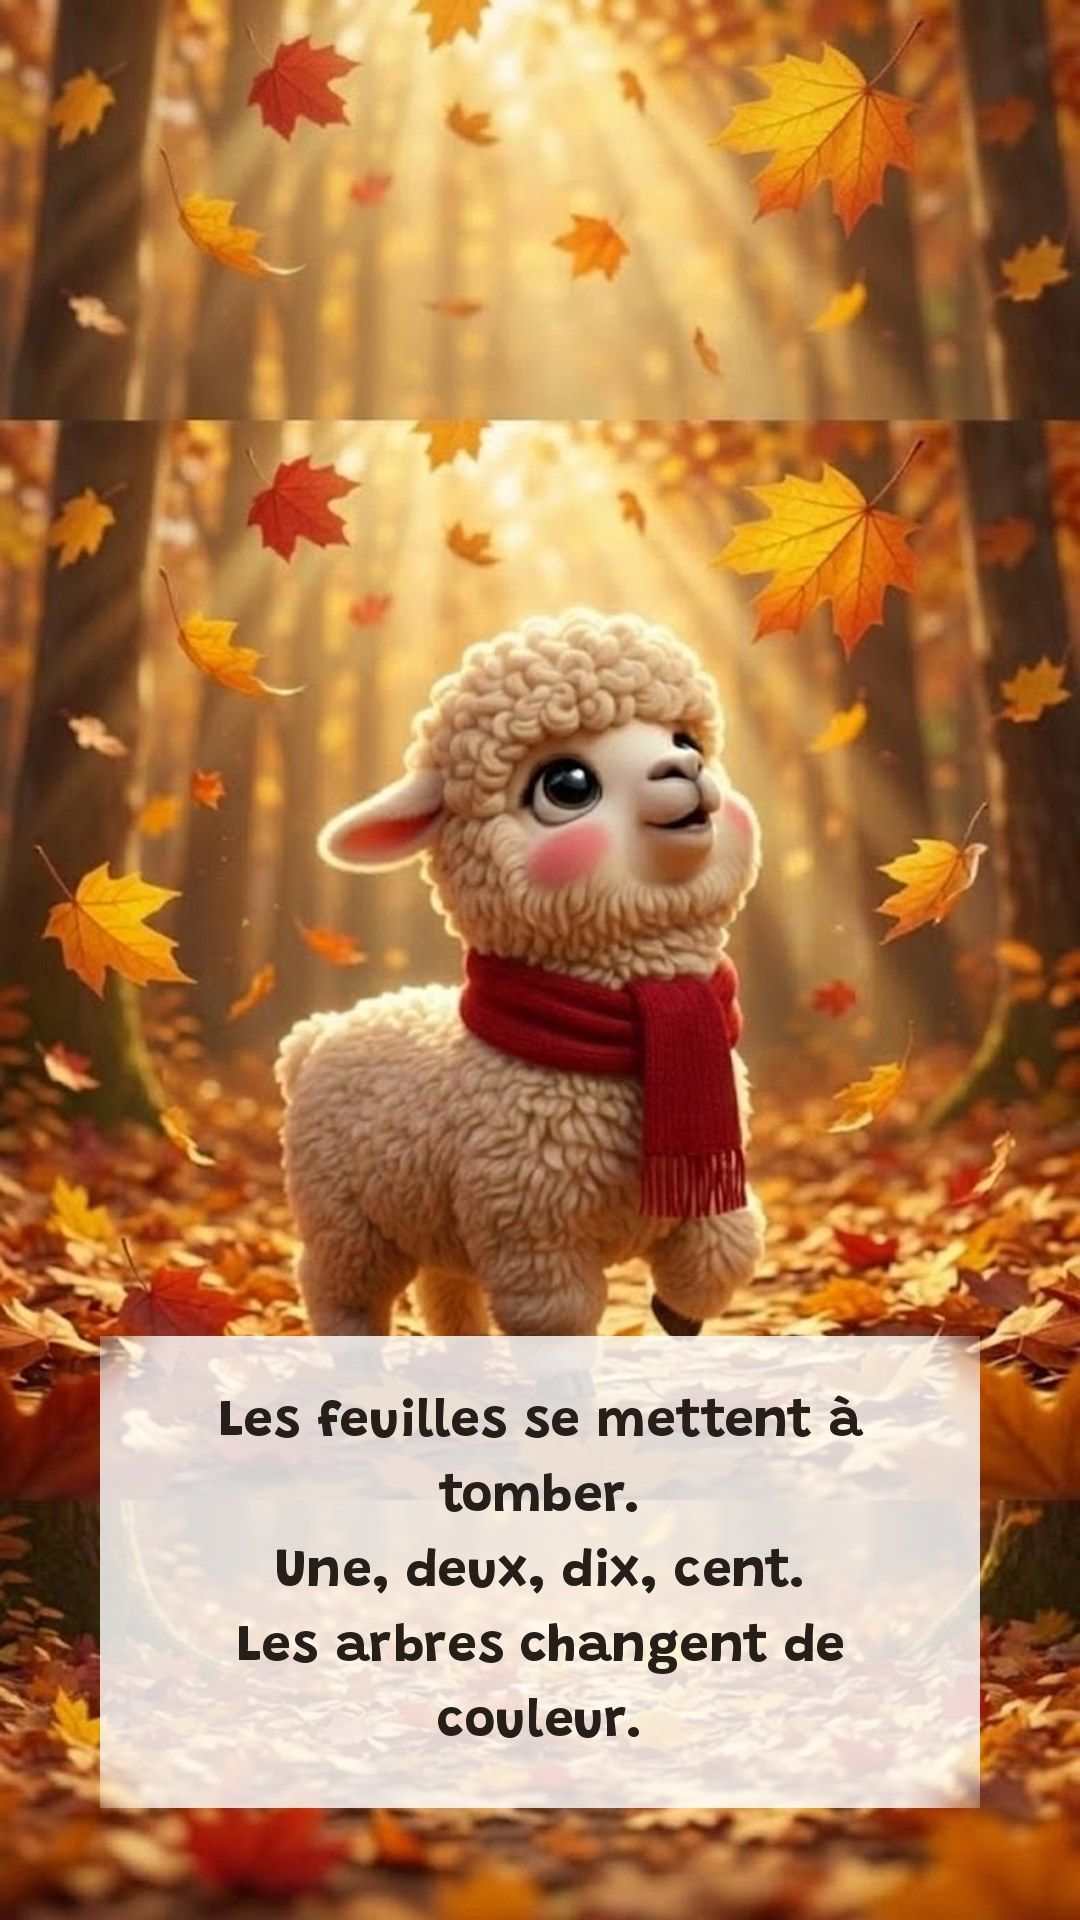
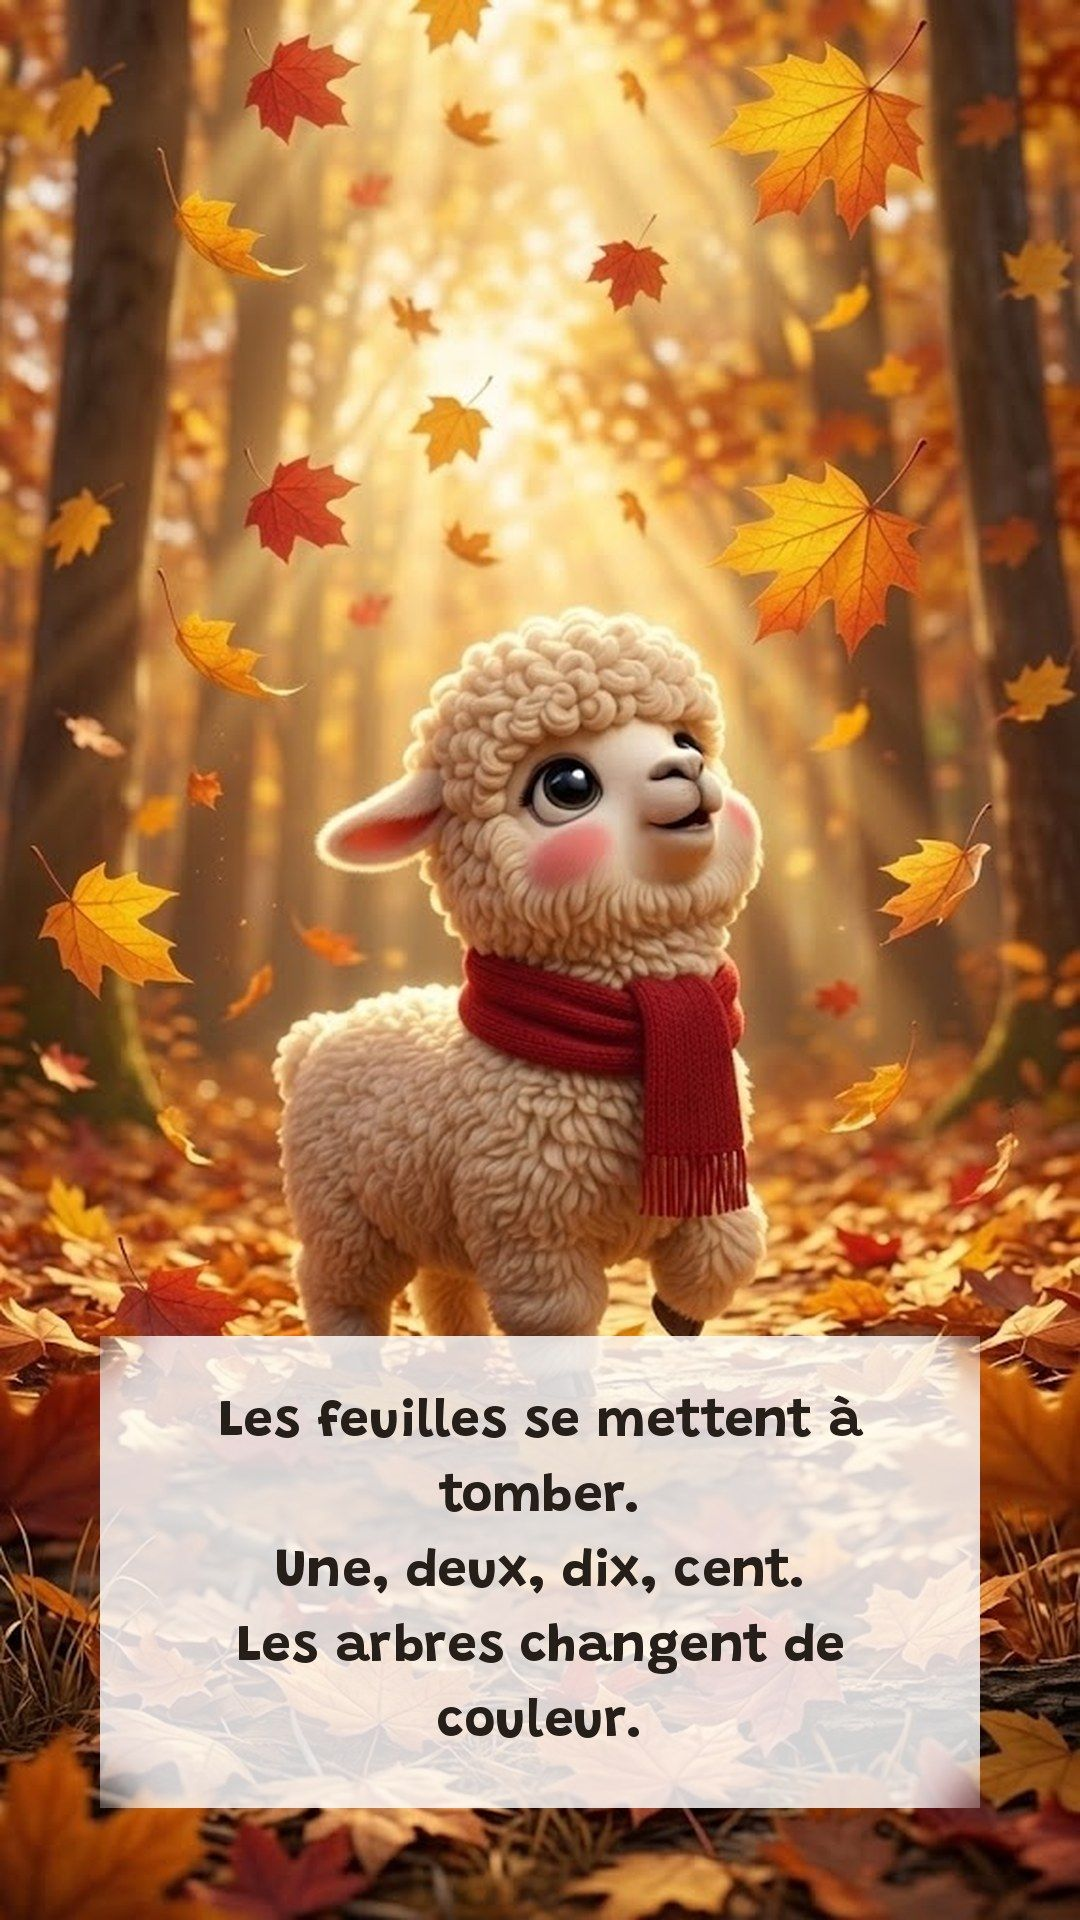
image 14 corrigee en 9:16 + adresses versionnees contre le cache

diff --git a/index.html b/index.html
@@ -65,7 +65,7 @@
 <div id="indice">Balayez pour tourner la page</div>
 
 <script>
-const PAGES = ["images/page-01.jpg","images/page-02.jpg","images/page-03.jpg","images/page-04.jpg","images/page-05.jpg","images/page-06.jpg","images/page-07.jpg","images/page-08.jpg","images/page-09.jpg","images/page-10.jpg","images/page-11.jpg","images/page-12.jpg","images/page-13.jpg","images/page-14.jpg","images/page-15.jpg","images/page-16.jpg","images/page-17.jpg","images/page-18.jpg","images/page-19.jpg","images/page-20.jpg","images/page-21.jpg","images/page-22.jpg","images/page-23.jpg","images/page-24.jpg","images/page-25.jpg","images/page-26.jpg"];
+const PAGES = ["images/page-01.jpg?v=febf9710","images/page-02.jpg?v=8993b998","images/page-03.jpg?v=76b3b8fc","images/page-04.jpg?v=ba33dc18","images/page-05.jpg?v=3be2766c","images/page-06.jpg?v=76748fcb","images/page-07.jpg?v=01e31895","images/page-08.jpg?v=42ee1e3d","images/page-09.jpg?v=459e1728","images/page-10.jpg?v=52ee88b9","images/page-11.jpg?v=d9258666","images/page-12.jpg?v=c7096f62","images/page-13.jpg?v=ced47d15","images/page-14.jpg?v=89c8e7e9","images/page-15.jpg?v=18478093","images/page-16.jpg?v=ced8293d","images/page-17.jpg?v=8fffe4b9","images/page-18.jpg?v=ae5bc187","images/page-19.jpg?v=6b198b8e","images/page-20.jpg?v=f93be625","images/page-21.jpg?v=e7793905","images/page-22.jpg?v=59ed639b","images/page-23.jpg?v=115cbeb1","images/page-24.jpg?v=ef28b389","images/page-25.jpg?v=e42b39af","images/page-26.jpg?v=ed6126c6"];
 const NUIT = '#050a16';
 const scene = document.getElementById('scene');
 const dessous = document.getElementById('dessous');
